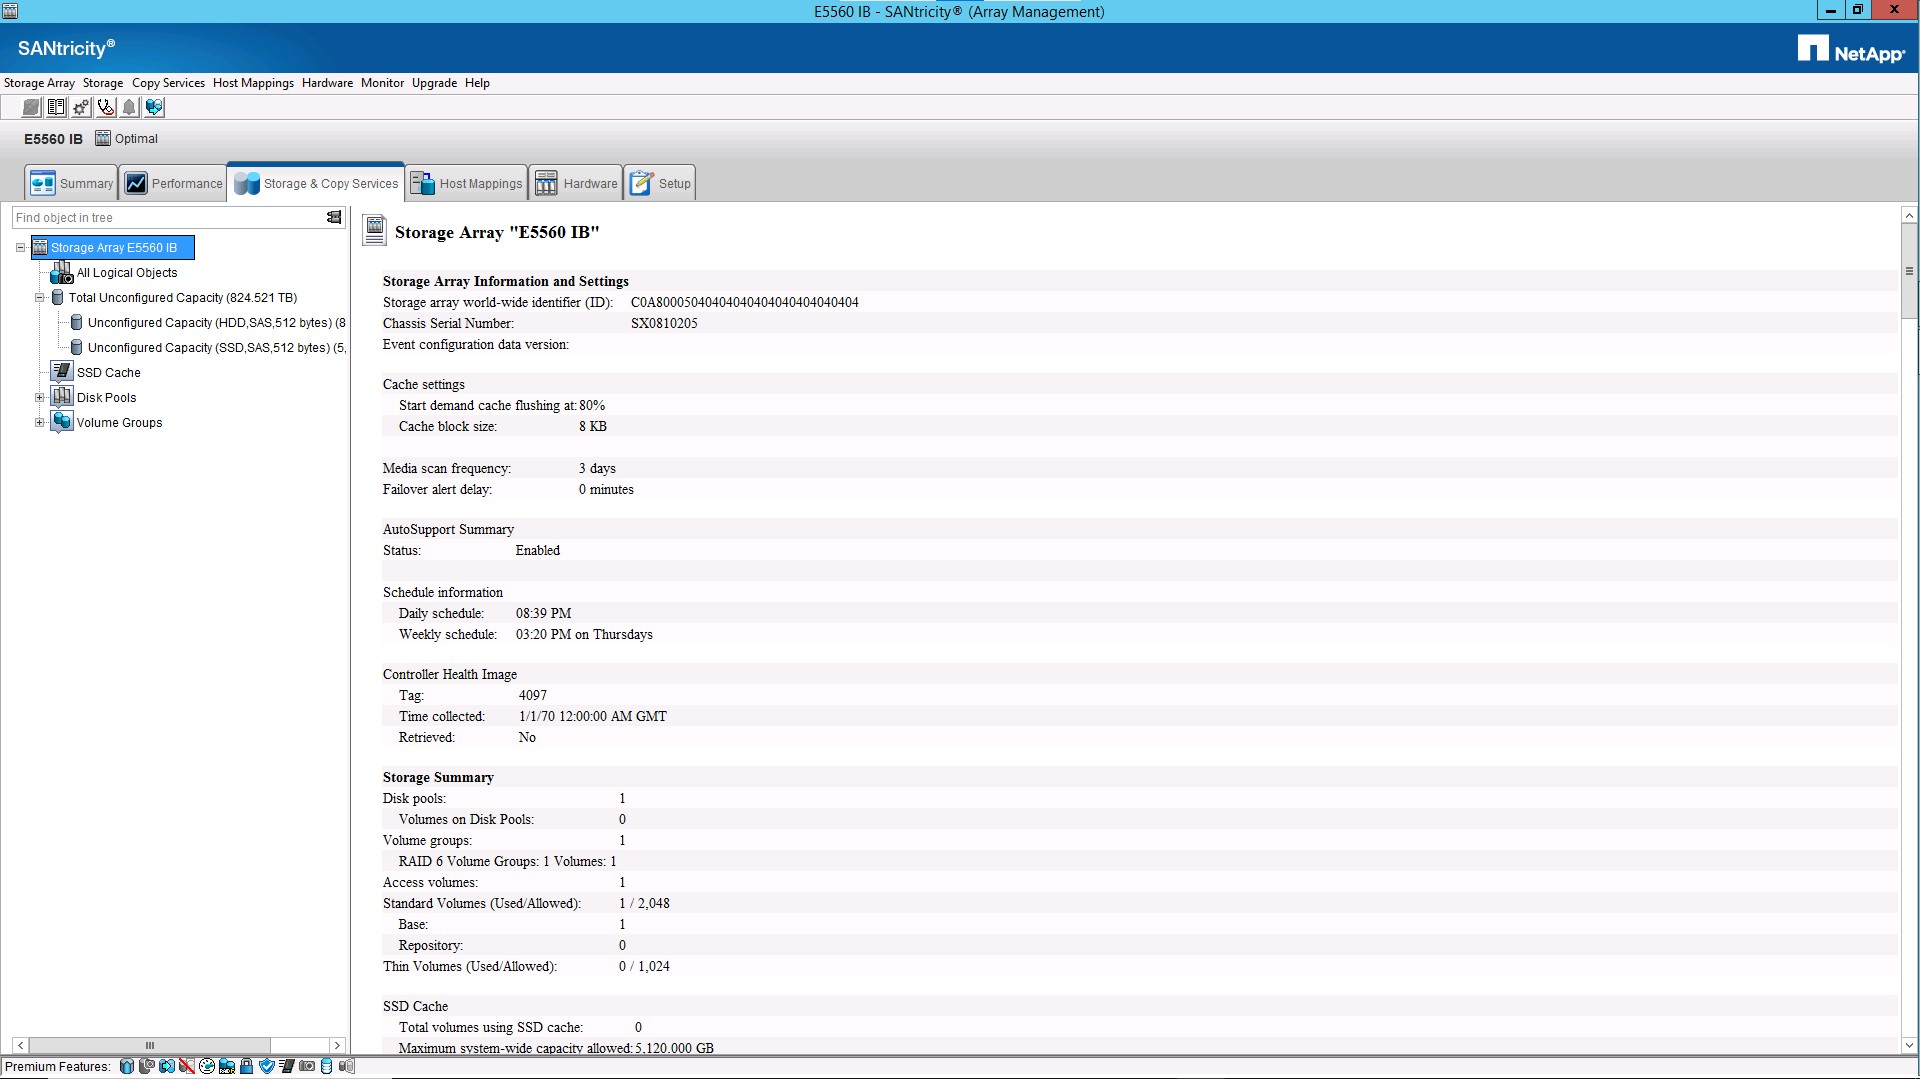
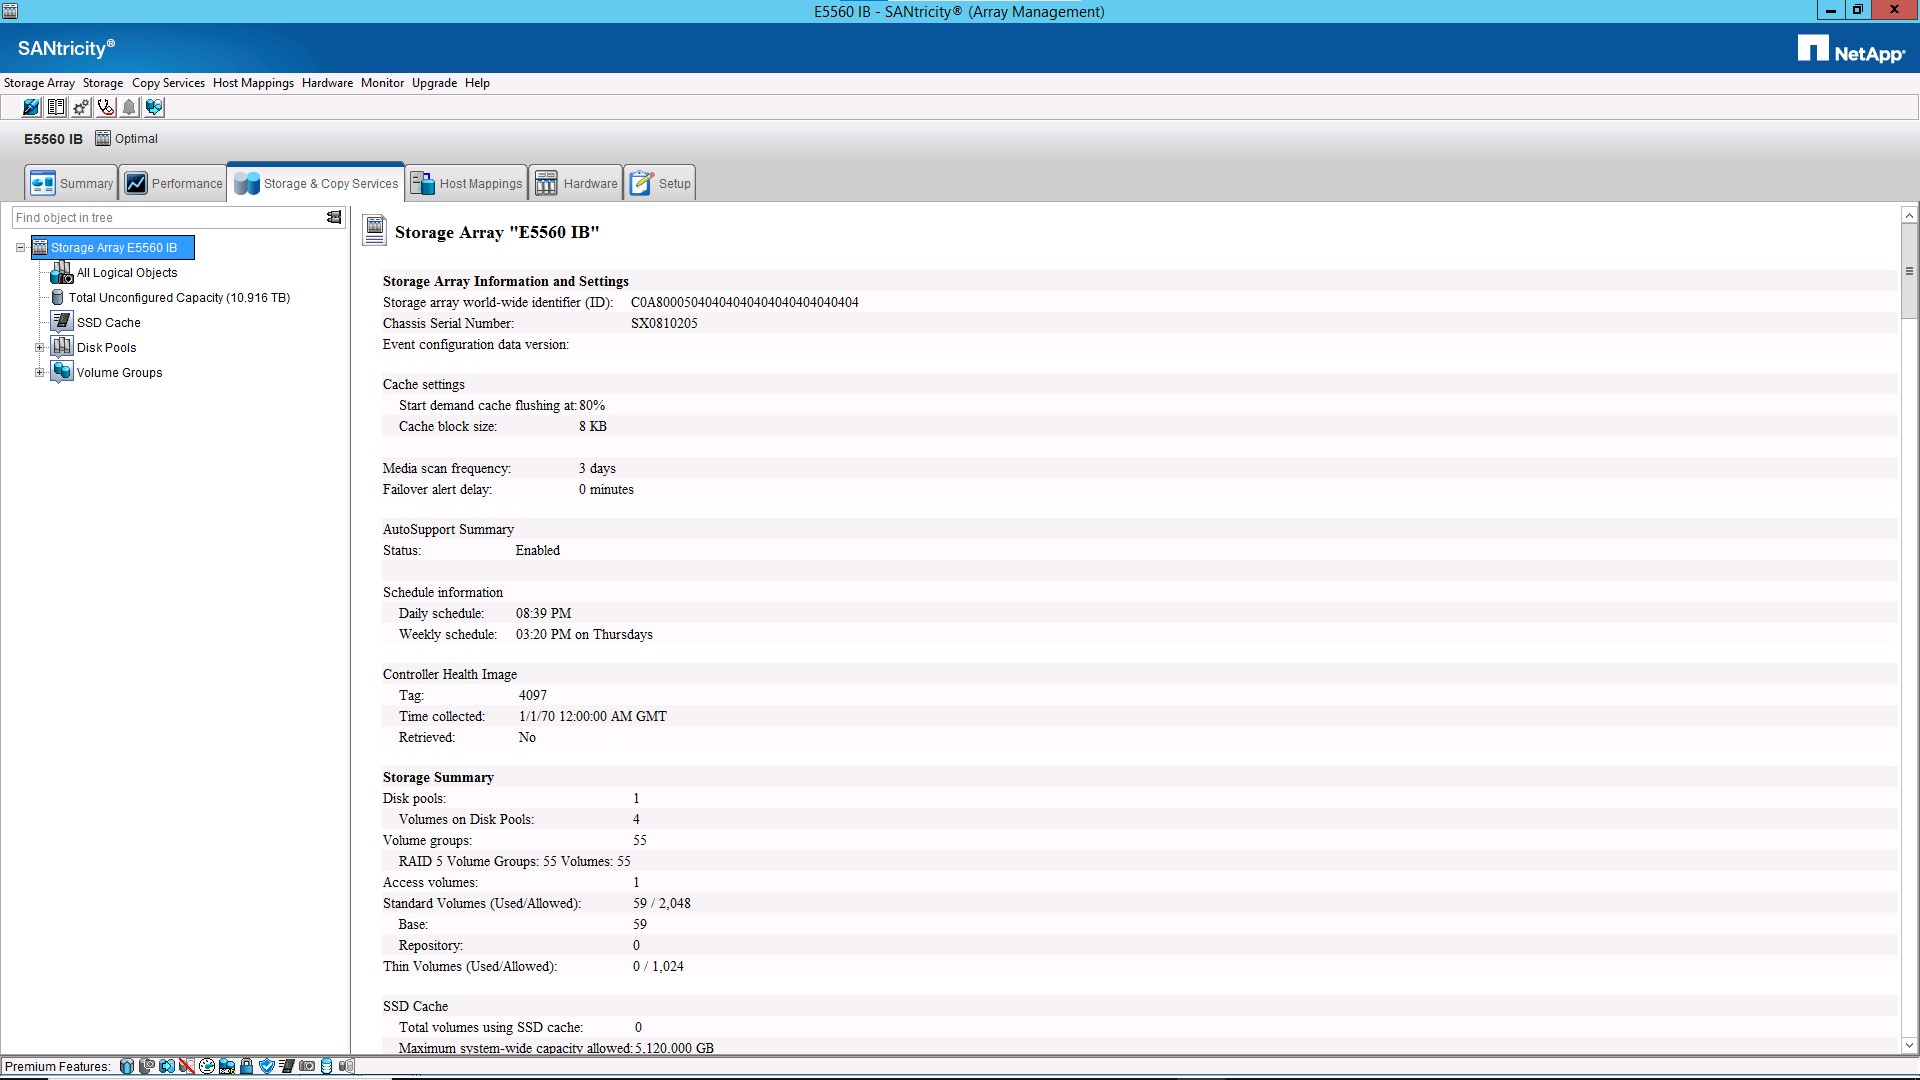
Finalizando maquetacion Storage & Copy Services

diff --git a/storage_copy_services.html b/storage_copy_services.html
@@ -16,5 +16,16 @@
 	<a href="host_mapping.html" id="host_mapping" class="button"></a>
 	<a href="hardware.html" id="hardware" class="button"></a>
 	<a href="setup.html" id="setup" class="button"></a>
+
+	<!-- Botones Storage Copy Services -->
+	<a href="/" id="storage_array" class="button"></a>
+	<a href="/" id="all_logical_objects" class="button"></a>
+	<a href="/" id="total_unconfigured_capacity" class="button"></a>
+	<a href="/" id="unconfigured_capacity_hdd" class="button"></a>
+	<a href="/" id="unconfigured_capacity_ssd" class="button"></a>
+	<a href="/" id="ssd_cache" class="button"></a>
+	<a href="/" id="disk_pools" class="button"></a>
+	<a href="/" id="volume_groups" class="button"></a>
+
 </body>
 </html>

diff --git a/css/style.css b/css/style.css
@@ -206,3 +206,45 @@ body {
 	right: 11%;
 	width:220px;
 }
+
+/* Storage Copy Services */
+#storage_array{
+	top: 21.8%;
+	left: 1.7%;
+	width:160px;
+}
+#all_logical_objects{
+	top: 24.1%;
+	left: 2.5%;
+	width:125px;
+}
+#total_unconfigured_capacity{
+	top: 26.6%;
+	left: 2.5%;
+	width:245px;
+}
+/* #unconfigured_capacity_hdd{
+	top: 32%;
+	left: 2.5%;
+	width:120px;
+}
+#unconfigured_capacity_ssd{
+	top: 21.8%;
+	left: 2.5%;
+	width:120px;
+} */
+#ssd_cache{
+	top: 28.8%;
+	left: 2.5%;
+	width:120px;
+}
+#disk_pools{
+	top: 31%;
+	left: 2.5%;
+	width:120px;
+}
+#volume_groups{
+	top: 33.3%;
+	left: 2.5%;
+	width:120px;
+}
